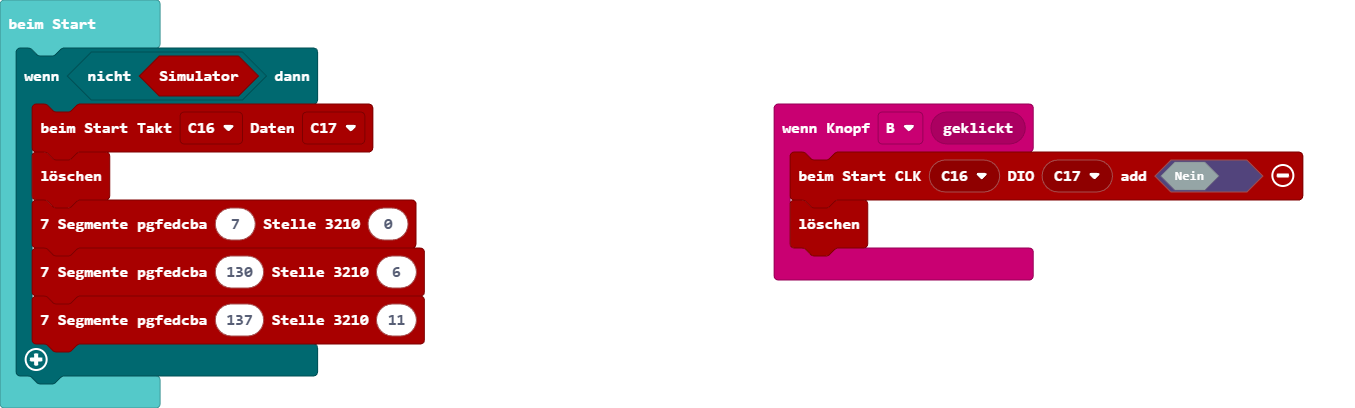
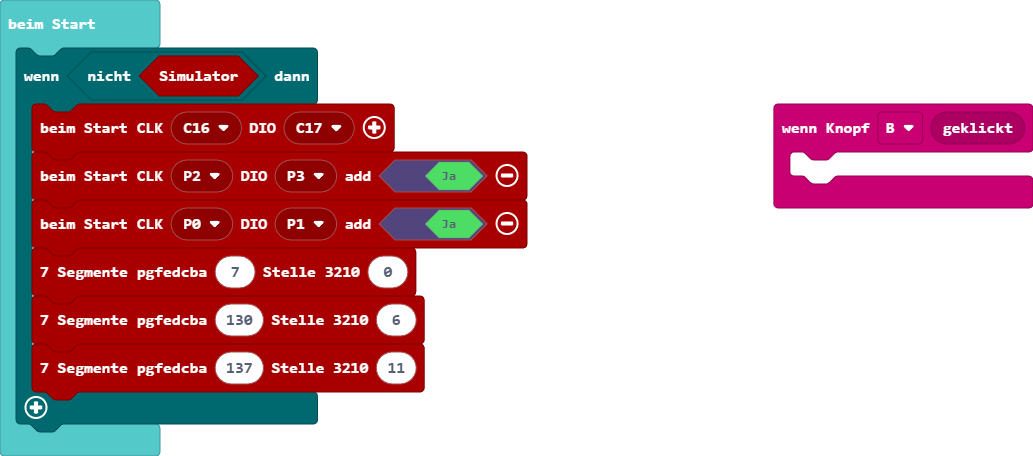
Aktualisiere pxt.json, main.blocks, main.ts, 4_digit_display.ts

diff --git a/4_digit_display.ts b/4_digit_display.ts
@@ -20,10 +20,10 @@ namespace pins {/* 4_digit_display.ts
         qDisplayPins.push(dataPin)
     }
 
-    //% group="Grove - 4-Digit Display" subcategory="4-Digit Display"
-    //% block="beim Start Takt %clkPin Daten %dataPin" weight=9
-    //% clkPin.defl=DigitalPin.C16 dataPin.defl=DigitalPin.C17
-    export function createDisplay(clkPin: DigitalPin, dataPin: DigitalPin) {
+    // group="Grove - 4-Digit Display" subcategory="4-Digit Display"
+    // block="beim Start Takt %clkPin Daten %dataPin" weight=9
+    // clkPin.defl=DigitalPin.C16 dataPin.defl=DigitalPin.C17
+    /* export function createDisplay(clkPin: DigitalPin, dataPin: DigitalPin) {
         qDisplayPins = []
         qDisplayPins.push(clkPin)
         qDisplayPins.push(dataPin)
@@ -33,25 +33,20 @@ namespace pins {/* 4_digit_display.ts
         qDisplayPins.push(DigitalPin.P1)
 
         basic.showNumber(qDisplayPins.length)
-    }
+    } */
 
     //% group="Grove - 4-Digit Display" subcategory="4-Digit Display"
-    //% block="%Display löschen" weight=8
-    export function clear() {
+    //% block="Displays löschen" weight=8
+    export function d4Clear() {
         for (let i = 0; i < qDisplayPins.length * 2; i++) {
             segmente_anzeigen(0, i)
         }
-        /* 
-                segmente_anzeigen(0, 0x00);
-                segmente_anzeigen(0, 0x01);
-                segmente_anzeigen(0, 0x02);
-                segmente_anzeigen(0, 0x03); */
     }
 
 
 
-    //% group="Grove - 4-Digit Display" subcategory="4-Digit Display"
-    //% block="7 Segmente pgfedcba %seg_byte Stelle 3210 %stelle" weight=6
+    //% group="Punkt und 7 Segmente pgfedcba" subcategory="4-Digit Display"
+    //% block="7 Segment Byte %seg_byte Stelle ←3210 %stelle" weight=6
     export function segmente_anzeigen(seg_byte: number, stelle: number) {
         // 76543210 seg_byte: Punkt p und 7 Segmente a..g 
         // pgfedcba
@@ -80,31 +75,32 @@ namespace pins {/* 4_digit_display.ts
     function writeByte(wrData: number, clkPin: DigitalPin, dataPin: DigitalPin) {
         for (let i = 0; i < 8; i++) {
             pins.digitalWritePin(clkPin, 0)
-            if (wrData & 0x01)
+            pins.digitalWritePin(dataPin, wrData & 0x01)
+           /*  if (wrData & 0x01)
                 pins.digitalWritePin(dataPin, 1)
             else
-                pins.digitalWritePin(dataPin, 0)
+                pins.digitalWritePin(dataPin, 0) */
             wrData >>= 1
             pins.digitalWritePin(clkPin, 1)
         }
 
-        pins.digitalWritePin(clkPin, 0); // Wait for ACK
-        pins.digitalWritePin(dataPin, 1);
-        pins.digitalWritePin(clkPin, 1);
+        pins.digitalWritePin(clkPin, 0) // Wait for ACK
+        pins.digitalWritePin(dataPin, 1)
+        pins.digitalWritePin(clkPin, 1)
     }
 
     function start(clkPin: DigitalPin, dataPin: DigitalPin) {
-        pins.digitalWritePin(clkPin, 1);
-        pins.digitalWritePin(dataPin, 1);
-        pins.digitalWritePin(dataPin, 0);
-        pins.digitalWritePin(clkPin, 0);
+        pins.digitalWritePin(clkPin, 1)
+        pins.digitalWritePin(dataPin, 1)
+        pins.digitalWritePin(dataPin, 0)
+        pins.digitalWritePin(clkPin, 0)
     }
 
     function stop(clkPin: DigitalPin, dataPin: DigitalPin) {
-        pins.digitalWritePin(clkPin, 0);
-        pins.digitalWritePin(dataPin, 0);
-        pins.digitalWritePin(clkPin, 1);
-        pins.digitalWritePin(dataPin, 1);
+        pins.digitalWritePin(clkPin, 0)
+        pins.digitalWritePin(dataPin, 0)
+        pins.digitalWritePin(clkPin, 1)
+        pins.digitalWritePin(dataPin, 1)
     }
 
 

diff --git a/main.ts b/main.ts
@@ -1,10 +1,10 @@
 input.onButtonEvent(Button.B, input.buttonEventClick(), function () {
-    pins.d4CreateDisplay(pins.pins_DigitalPin(DigitalPin.C16), pins.pins_DigitalPin(DigitalPin.C17), false)
-    pins.clear()
+	
 })
 if (!(pins.simulator())) {
-    pins.createDisplay(DigitalPin.C16, DigitalPin.C17)
-    pins.clear()
+    pins.d4CreateDisplay(pins.pins_DigitalPin(DigitalPin.C16), pins.pins_DigitalPin(DigitalPin.C17))
+    pins.d4CreateDisplay(pins.pins_DigitalPin(DigitalPin.P2), pins.pins_DigitalPin(DigitalPin.P3), true)
+    pins.d4CreateDisplay(pins.pins_DigitalPin(DigitalPin.P0), pins.pins_DigitalPin(DigitalPin.P1), true)
     pins.segmente_anzeigen(7, 0)
     pins.segmente_anzeigen(130, 6)
     pins.segmente_anzeigen(137, 11)
